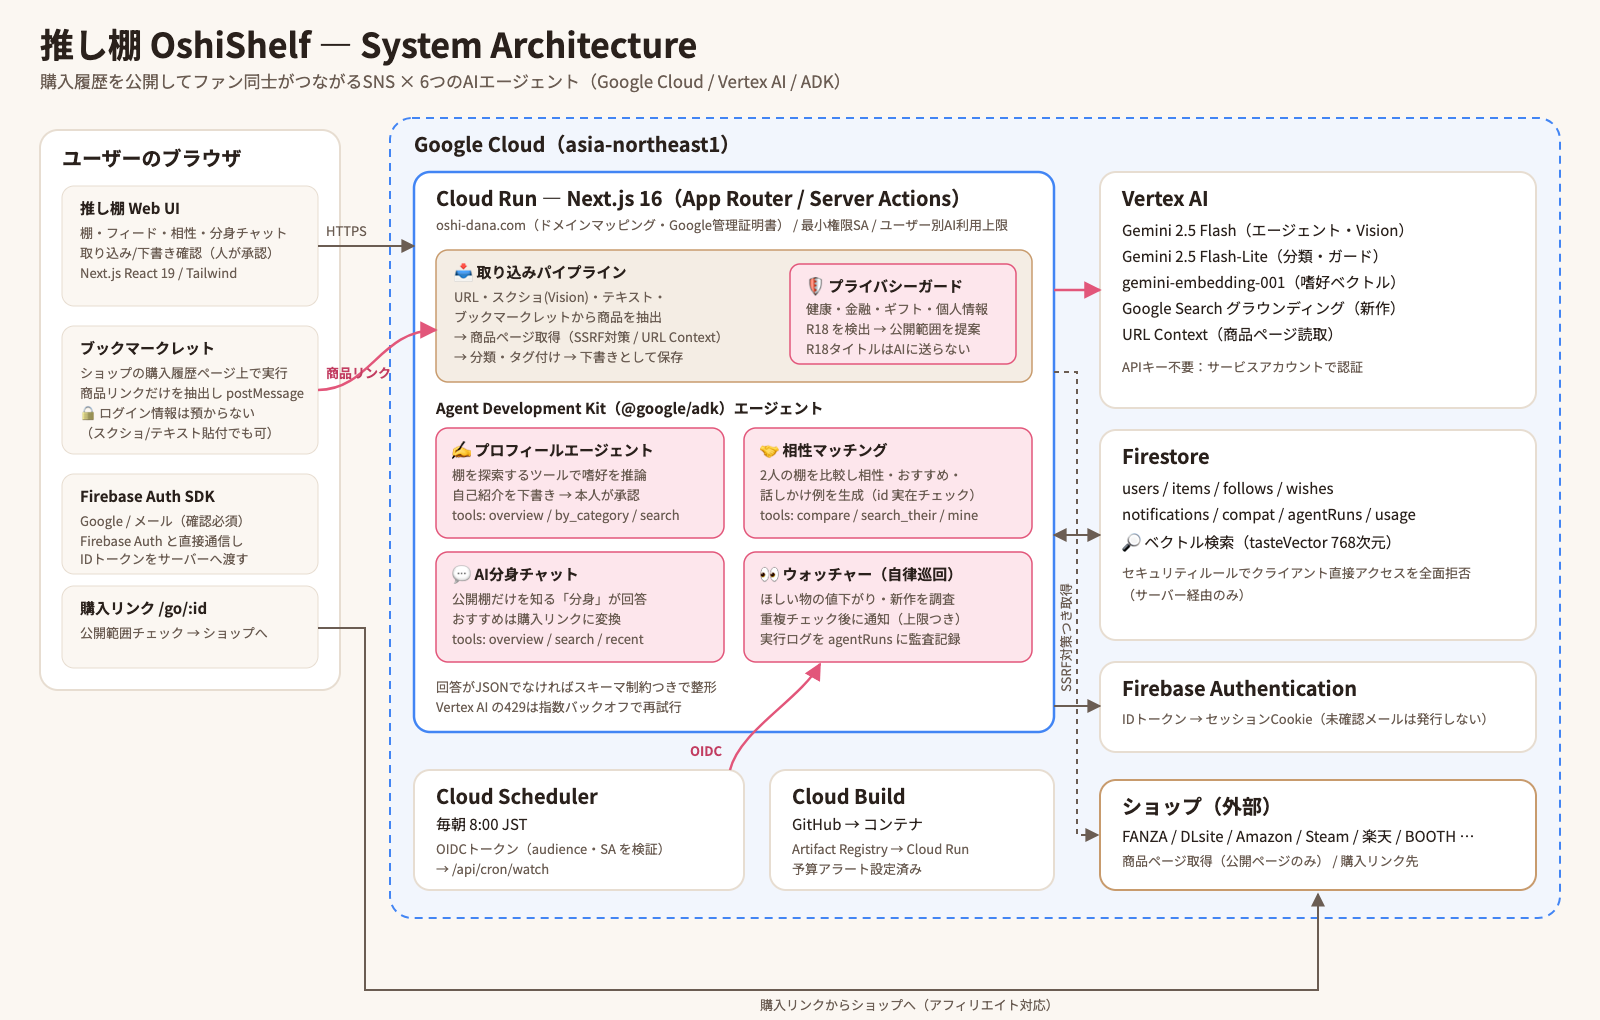
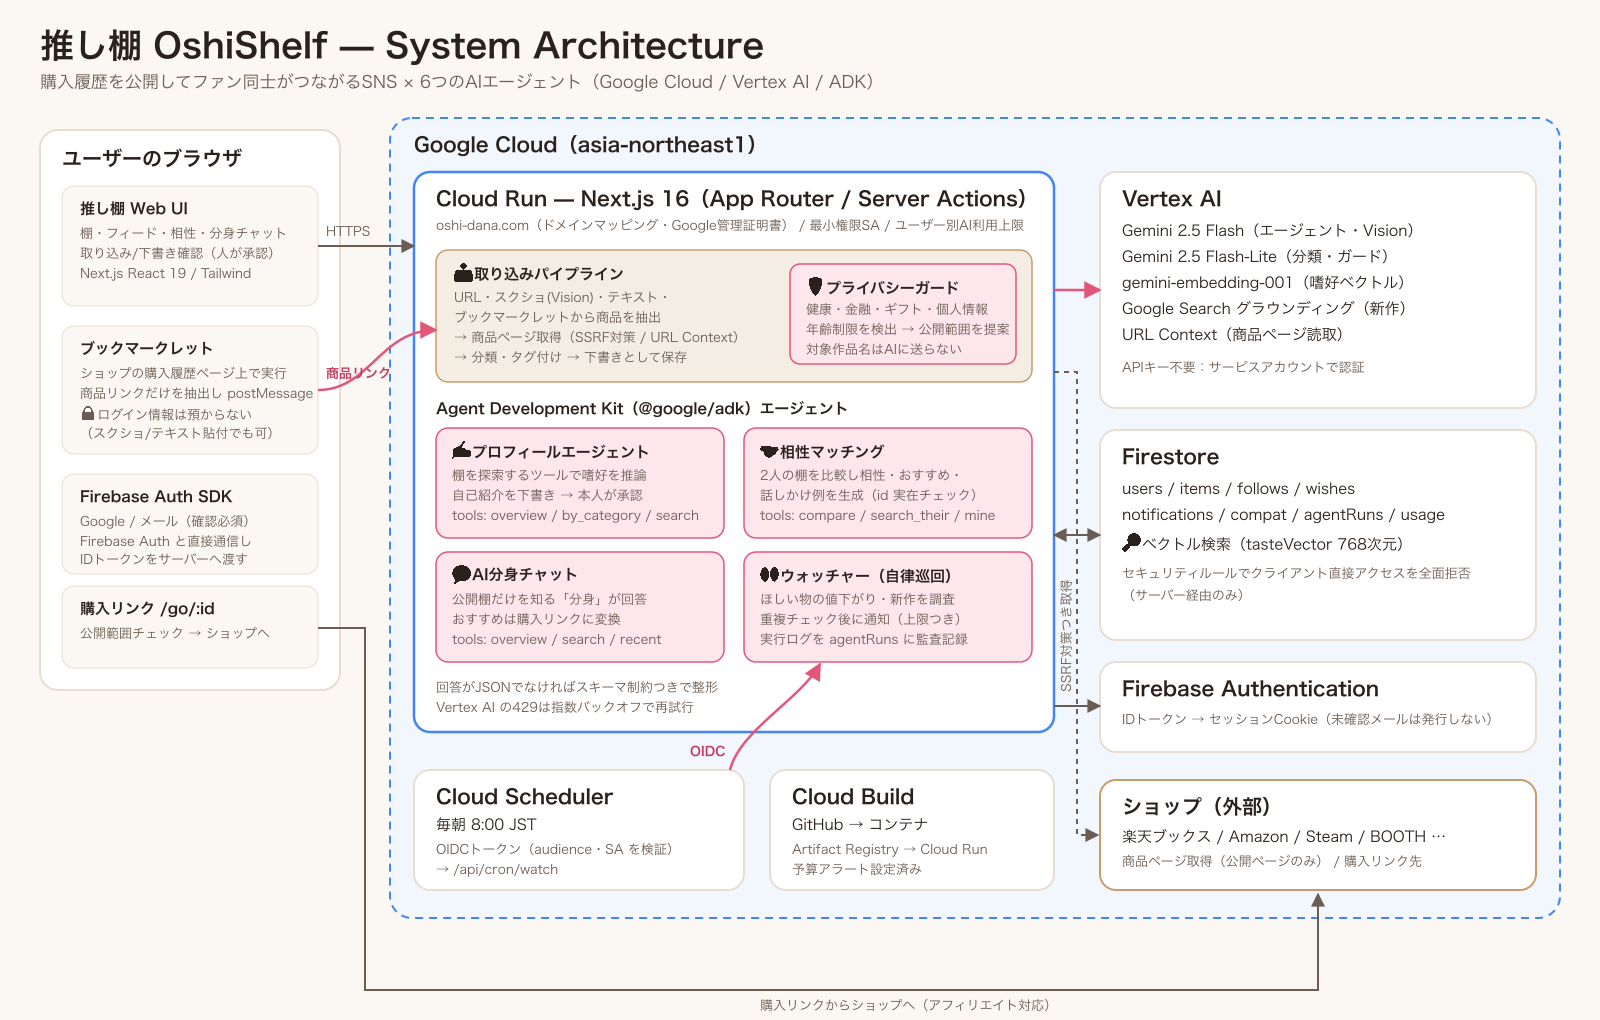
docs: 提出資料と紹介画面を一般向けの表現に変更

diff --git a/src/app/import/import-tabs.tsx b/src/app/import/import-tabs.tsx
@@ -77,7 +77,7 @@ export function ImportTabs({ bookmarklet }: { bookmarklet: string }) {
                   <BookmarkletLink href={bookmarklet} />
                 </div>
               </li>
-              <li>FANZA・DLsite・Amazon などの「購入履歴」「ライブラリ」ページを開く（ログインしたまま）</li>
+              <li>楽天ブックス、Amazon などの「購入履歴」「ライブラリ」ページを開く（ログインしたまま）</li>
               <li>ブックマークをクリック → ページを自動でスクロール・次のページもたどって、取り込みエージェントが購入した商品だけを読み取ります</li>
             </ol>
             <p className="mt-2 text-xs text-ink-2">登録後は実行時に最新版を読み込みます。すでに登録している方は、最初の一度だけブックマークを更新してください。</p>
@@ -102,7 +102,7 @@ export function ImportTabs({ bookmarklet }: { bookmarklet: string }) {
       {tab === "screenshot" && (
         <form action={shotAction} className="space-y-3">
           <p className="text-sm text-ink-2">購入履歴画面のスクリーンショット（最大5枚）から、Geminiが商品名を読み取ります。氏名・住所などは抽出しません。</p>
-          <p className="text-xs text-warn">⚠ 成人向けショップ（FANZA・DLsite など）の画面には使わず、ブックマークレットで取り込んでください。ブックマークレットなら作品名や画像をAIに送らずに取り込めます。</p>
+          <p className="text-xs text-warn">⚠ 年齢制限のある商品を扱うショップの画面には使わず、ブックマークレットで取り込んでください。ブックマークレットなら作品名や画像をAIに送らずに取り込めます。</p>
           <input type="file" name="images" accept="image/png,image/jpeg,image/webp" multiple required className="block text-sm" />
           <button className="btn-primary" disabled={shotPending}>
             {shotPending ? "AIが読み取り中…" : "読み取って取り込む"}
@@ -114,7 +114,7 @@ export function ImportTabs({ bookmarklet }: { bookmarklet: string }) {
       {tab === "url" && (
         <form action={urlAction} className="space-y-3">
           <p className="text-sm text-ink-2">商品ページのURLを貼ってください（改行区切りで最大30件）。どのショップでもOKです。</p>
-          <textarea name="urls" className="input min-h-28" placeholder={"https://www.amazon.co.jp/dp/...\nhttps://book.dmm.com/product/..."} required />
+          <textarea name="urls" className="input min-h-28" placeholder={"https://www.amazon.co.jp/dp/...\nhttps://books.rakuten.co.jp/rb/..."} required />
           <button className="btn-primary" disabled={urlPending}>
             {urlPending ? "取得中…" : "取り込む"}
           </button>

diff --git a/src/app/privacy/page.tsx b/src/app/privacy/page.tsx
@@ -63,7 +63,7 @@ export default function PrivacyPage() {
         <List
           items={[
             "AI機能では、Google Cloud の Vertex AI（Gemini）を利用して情報を処理します。Google Cloud の規約により、送信したデータがGoogleのAIモデルの学習に使われることはありません。",
-            "ブックマークレットで取り込む場合、成人向けショップ（FANZA・DLsite など）の作品名・画像・カードの文字はAIに送信しません。AIにはURLや「再生」「試し読み」などの表示用の言葉といったページの構造だけを渡し、作品名は運営者のプログラムが画面上の表示から取得します。",
+            "ブックマークレットで取り込む場合、年齢制限のある商品を扱うショップの作品名・画像・カードの文字はAIに送信しません。AIにはURLや「再生」「試し読み」などの表示用の言葉といったページの構造だけを渡し、作品名は運営者のプログラムが画面上の表示から取得します。",
             "スクリーンショットとテキストの貼り付けによる取り込みでは、画面の内容がそのままAIに送られます。成人向けショップの購入履歴にはブックマークレットをご利用ください。",
             "取り込み後も、成人向けショップの作品名は分類・プライバシーチェックのためにAIへ送信しません。",
             "自己紹介文・相性分析・AI分身チャットなど、ほかの人の目に触れるAIの出力は、「全体公開」の作品だけをもとに作成します。「フォロワーのみ」「自分のみ」の作品が、AIの出力を通じてほかの人に伝わることはありません。",
@@ -101,7 +101,7 @@ export default function PrivacyPage() {
         <List
           items={[
             "本サービスは、ログイン状態を保つためにCookie（httpOnly のセッションCookie）を使用します。広告配信や行動追跡を目的としたCookieは使用しません。",
-            "商品リンクから外部のショップに移動すると、アフィリエイトプログラム（DMMアフィリエイト等）の仕組みにより、ショップ側でCookieなどが使用されることがあります。その取り扱いは各ショップ・各プログラムのプライバシーポリシーによります。",
+            "商品リンクから外部のショップに移動すると、アフィリエイトプログラムの仕組みにより、ショップ側でCookieなどが使用されることがあります。その取り扱いは各ショップ・各プログラムのプライバシーポリシーによります。",
           ]}
         />
       </Section>

diff --git a/src/app/actions.ts b/src/app/actions.ts
@@ -174,7 +174,7 @@ export async function importPasteAction(_: unknown, form: FormData): Promise<Act
     // A bare product URL is not proof of purchase; preserve the page context for AI.
     const urls = text.match(/https?:\/\/[^\s"'<>]+/g) ?? [];
     if (ADULT_SHOP_TEXT.test(text) || urls.some((url) => detectShop(url).adult)) {
-      throw new Error("成人向けショップ（FANZA・DLsite など）の購入履歴は、作品名をAIに送らないブックマークレットで取り込んでください");
+      throw new Error("年齢制限のある商品を扱うショップの購入履歴は、作品名をAIに送らないブックマークレットで取り込んでください");
     }
     const candidates = await extractFromText(text);
     const report = await importCandidates(uid, candidates, "paste", profile.defaultVisibility);

diff --git a/src/app/page.tsx b/src/app/page.tsx
@@ -93,7 +93,7 @@ async function GuestFeed({ deleted }: { deleted: boolean }) {
           あなたの<span className="text-accent">自己紹介</span>になる。
         </h1>
         <p className="mx-auto mt-3 max-w-xl text-sm text-ink-2">
-          FANZA・DLsite・Amazon など、どこで買った作品も「棚」に並べて公開。AIエージェントがあなたの嗜好を読み解き、同じ趣味の仲間とつなげます。
+          楽天ブックス、Amazon など、どこで買った作品も「棚」に並べて公開。AIエージェントがあなたの嗜好を読み解き、同じ趣味の仲間とつなげます。
         </p>
         <div className="mt-5 flex justify-center gap-3">
           <Link href="/login?mode=signup" className="btn-primary !px-6 !py-3 !text-base">

diff --git a/src/lib/site.ts b/src/lib/site.ts
@@ -8,4 +8,4 @@ export const SITE = {
 } as const;
 
 export const AFFILIATE_DISCLOSURE =
-  "当サイトはアフィリエイトプログラム（DMMアフィリエイト等）を利用しています。商品リンクから購入されると、運営者が販売元から報酬を受け取ることがあります。";
+  "当サイトはアフィリエイトプログラムを利用しています。商品リンクから購入されると、運営者が販売元から報酬を受け取ることがあります。";

diff --git a/README.md b/README.md
@@ -2,7 +2,7 @@
 
 **買ったものが、あなたの自己紹介になる。**
 
-FANZA・DLsite・Amazon・Steam など、どこで買った作品も「棚」に並べて公開し、同じ趣味のファン同士がつながる SNS です。
+楽天ブックス、Amazon、Steam など、どこで買った作品も「棚」に並べて公開し、同じ趣味のファン同士がつながる SNS です。
 フォロワーの棚から気になる作品を見つけたら、そのまま商品ページへジャンプして購入できます。
 6 つの AI エージェントが、購入履歴の取り込みから公開前のプライバシーチェック、趣味の合う人探しまでを自律的に支援します。
 
@@ -23,7 +23,7 @@ FANZA・DLsite・Amazon・Steam など、どこで買った作品も「棚」に
 | エージェント | 役割 | 実装 |
 |---|---|---|
 | 📥 取り込みエージェント | どの EC サイトの購入履歴・ライブラリでも、ページ上のリンクを「商品カード（周辺テキスト・見出し・画像候補）」として読み、購入商品だけを漏れなく抽出（おすすめ・広告・補助リンクは除外、同一商品はまとめる）。ブックマークレットが自動スクロールと同一サイト内のページ送りを行う。AI が返した URL・画像はページ上に実在するものだけを採用し、取りこぼし候補は再確認パスで回収 | Gemini 構造化出力（判断基準をシステムプロンプトで明文化）、スクショは Gemini マルチモーダル、URL Context フォールバック |
-| 🛡 プライバシーガード | 公開前に「健康・金融・ギフト・個人情報・R18」など見られたくない可能性のある商品を検出し、公開範囲を提案。人間が確認してから公開 | Gemini 構造化出力（R18 ショップの作品はタイトルを AI に送らず決定的に判定） |
+| 🛡 プライバシーガード | 公開前に「健康・金融・ギフト・個人情報・年齢制限」など見られたくない可能性のある商品を検出し、公開範囲を提案。人間が確認してから公開 | Gemini 構造化出力（年齢制限のあるショップの作品はタイトルを AI に送らず決定的に判定） |
 | ✍ プロフィールエージェント | 棚をツールで探索して嗜好を推論し、自己紹介文を下書き。本人が編集・承認して公開 | ADK `LlmAgent` + FunctionTool |
 | 🤝 相性マッチング | 嗜好ベクトルで近い人を推薦。プロフィールでは 2 人の棚を比較し、相性・共通点・おすすめ作品・話しかけ例を生成 | `gemini-embedding-001` + Firestore ベクトル検索、ADK エージェント |
 | 💬 AI 分身チャット | フォロー相手の公開棚だけを知る「分身」に、おすすめを聞ける。回答中の作品は購入リンクになる | ADK エージェント（棚検索ツール） |
@@ -56,7 +56,7 @@ flowchart LR
     FA[Firebase Auth]
     SCH[Cloud Scheduler]
   end
-  SHOP[(ショップ<br/>FANZA / DLsite / Amazon / Steam ...)]
+  SHOP[(ショップ<br/>楽天ブックス / Amazon / Steam ...)]
 
   U -->|セッションCookie| UI
   BM -->|postMessage 商品リンク| UI
@@ -76,7 +76,7 @@ flowchart LR
 
 - **ログイン情報を預からない**: ログイン必須の購入履歴ページは、ユーザー自身のブラウザ上でブックマークレットが読み取り、商品リンクだけを推し棚へ渡す。
 - **人間が最終判断**: 取り込んだ商品は必ず下書きになり、プライバシーガードが要確認とした物は選択が外れた状態で提示される。AI が書いた自己紹介も承認制。
-- **R18 は閲覧者が選ぶ**: 持ち主は R18 作品も全体公開にできるが、閲覧者には初期状態で表示されない。18 歳以上と申告して表示を ON にした人だけが見られ（フィード・棚・購入リンクのすべてで判定）、OFF の人はフォローした人の棚でも非 R18 の作品だけを見られる。R18 作品のタイトル・画像は LLM に送らない。持ち主が「成人向け作品を AI に使う」を ON にした場合だけ、ジャンル・タグを AI に渡し、R18 を反映した自己紹介（A 版）・相性分析・分身の回答は表示 ON の閲覧者にだけ出す（OFF の閲覧者には R18 を含まない B 版）。出力は非露骨に限定し、Vertex AI の安全フィルタも併用する。
+- **年齢制限のある作品も安全に取り込み・公開**: 取り込み後は下書きで保存し、本人が確認してから公開する。他の人の成人向け作品は初期状態では非表示で、18歳以上の申告と表示同意がそろった閲覧者だけに、フィード・棚・購入リンクを表示する。AI利用には所有者の別途同意が必要で、タイトル・画像・URL・メモを伏せ、ジャンルとタグだけを使う。同意と表示設定に応じて自己紹介・相性分析・分身の回答を切り替え、出力は非露骨な表現に限定する。Vertex AI の安全フィルタも併用する。
 - **退会**: 設定画面から、アカウントと関連データ（棚・フォロー・ほしいもの・通知・AI のキャッシュ・利用記録）をまとめて削除できる。
 - **SSRF 対策**: 商品ページ取得は http(s) のみ、DNS 解決後のプライベート IP を拒否し、リダイレクトを 1 ホップごとに再検証、サイズと時間を制限。
 - **エージェントの権限制限**: ツールは読み取り中心で、通知・検索には 1 回の実行あたりの上限がある。モデルが返した item id は実在チェックしてから使う。

diff --git a/docs/demo-video-script.md b/docs/demo-video-script.md
@@ -10,7 +10,7 @@
 - [ ] 本番 URL を開き、デモアカウントでログインできることを確認
 - [ ] 取り込み用のテキストを用意（下の「貼り付け用テキスト」）。前回の下書きが残っていたら「確認して公開」画面で削除しておく
   - 同じ商品は二重に取り込まれない仕様なので、撮り直すときは「棚の編集」で公開済みの同じ商品も削除しておく
-- [ ] FANZA・Amazon などの購入履歴ページは、**実際の購入履歴や氏名・住所が映らないよう** に、撮影用のテスト画面かぼかしで対応する
+- [ ] 楽天ブックス、Amazon などの購入履歴ページは、**実際の購入履歴や氏名・住所が映らないよう** に、撮影用のテスト画面かぼかしで対応する
 - [ ] 通知の「🔔」に赤い数字が出ていない状態にしておく（通知画面を一度開く）
 - [ ] 相性分析は一度実行しておくとキャッシュで即表示される。動画では「再分析」を押して早送りでもよい
 - [ ] ブラウザの拡張機能アイコンやブックマークバーの私物を隠す
@@ -43,7 +43,7 @@
 
 | 時間 | 画面 | ナレーション |
 |---|---|---|
-| 0:00–0:15 | トップページ（ログアウト状態）。キャッチコピーと6つのエージェントのカードを映す | 「何を買ったか」は、その人の趣味をいちばん正直に表します。でも購入履歴はショップごとに閉じていて、ファン同士で見せ合えません。推し棚は、どこで買った作品でも棚に並べて公開し、同じ趣味の人とつながれるSNSです。 |
+| 0:00–0:15 | トップページ（ログアウト状態）。キャッチコピーと「ログインするとできること」を映す | 「何を買ったか」は、その人の趣味をいちばん正直に表します。でも購入履歴はショップごとに閉じていて、ファン同士で見せ合えません。推し棚は、どこで買った作品でも棚に並べて公開し、同じ趣味の人とつながれるSNSです。 |
 | 0:15–0:25 | ログイン画面 →「デモアカウントでログイン」→ フィード | フォローした人の棚が並ぶフィードです。気になった作品は、ワンクリックでショップの商品ページに飛べます。 |
 | 0:25–0:55 | 「取り込む」→ 方法A（ブックマークレット）の説明を一瞬映す → 方法B に貼り付け用テキストを貼って「解析して取り込む」（早送り） | 購入履歴の取り込みはエージェントの仕事です。ショップの購入履歴ページでブックマークレットを押すだけで、ページ上の商品リンクを一括で読み取ります。ログイン情報は推し棚に一切渡りません。今回はページのテキストを貼り付けてみます。 |
 | 0:55–1:20 | 「確認して公開」画面。要確認3件（妊娠検査薬・借金の本・ギフト）がチェックの外れた状態で並ぶ。理由の文言にズーム。安全な3件だけ「公開」 | 取り込んだ商品は、すぐには公開されません。プライバシーガードが「見られたくないかも」という商品を先に見つけて、チェックを外した状態で見せてくれます。注文番号やお届け先は、そもそも取り込まれていません。公開するかどうかは、必ず本人が決めます。 |

diff --git a/docs/submission.md b/docs/submission.md
@@ -20,9 +20,9 @@
 
 > **推し棚（OshiShelf）― 買ったものが、あなたの自己紹介になる。**
 >
-> FANZA・DLsite・Amazon・Steam など、どこで買った作品も「棚」に並べて公開し、同じ趣味のファン同士がつながれる SNS です。フォローした人の棚から、気になる作品の商品ページへそのまま飛んで購入できます。
+> 楽天ブックス、Amazon、Steam など、どこで買った作品も「棚」に並べて公開し、同じ趣味のファン同士がつながれる SNS です。フォローした人の棚から、気になる作品の商品ページへそのまま飛んで購入できます。
 >
-> 購入履歴は趣味をいちばん正直に表すのに、ショップごとに閉じていて見せ合えません。手で棚を作るのは面倒で、しかも健康・お金・贈り物・成人向けなど「見られたくない物」が混ざります。推し棚では 6 つの AI エージェントがこの課題を解決します。
+> 購入履歴は趣味をいちばん正直に表すのに、ショップごとに閉じていて見せ合えません。手で棚を作るのは面倒で、しかも健康・お金・贈り物など「見られたくない物」が混ざります。推し棚では 6 つの AI エージェントがこの課題を解決します。
 >
 > 1. **取り込み**: 購入履歴ページ上のブックマークレット・スクショ・URL から商品を一括抽出（ログイン情報は預からない）
 > 2. **プライバシーガード**: 公開前に「見られたくないかも」を検出して公開範囲を提案。公開は必ず本人が決める
@@ -31,6 +31,6 @@
 > 5. **AI 分身チャット**: 相手の公開棚だけを知る分身に、おすすめを聞ける
 > 6. **ウォッチャー**: Cloud Scheduler で毎朝自律巡回し、ほしい物の値下がりと新作を通知
 >
-> 「判断は AI、事実の検証はコード」を徹底し、値下がり判定のコード検証、ツール呼び出しの上限、作品 ID の実在チェック、監査ログ、成人向け作品の AI 非送信、SSRF 対策、ユーザー別の AI 利用上限などで、安心して任せられるエージェントを目指しました。
+> 「判断は AI、事実の検証はコード」を徹底し、値下がり判定のコード検証、ツール呼び出しの上限、作品 ID の実在チェック、監査ログ、年齢制限のある作品の表示同意と AI 入力の制限、SSRF 対策、ユーザー別の AI 利用上限などで、安心して任せられるエージェントを目指しました。
 >
 > 技術: Cloud Run（Next.js 16）/ Agent Development Kit / Vertex AI Gemini 2.5 Flash・Flash-Lite / gemini-embedding-001 / Firestore ベクトル検索 / Firebase Authentication / Cloud Scheduler
